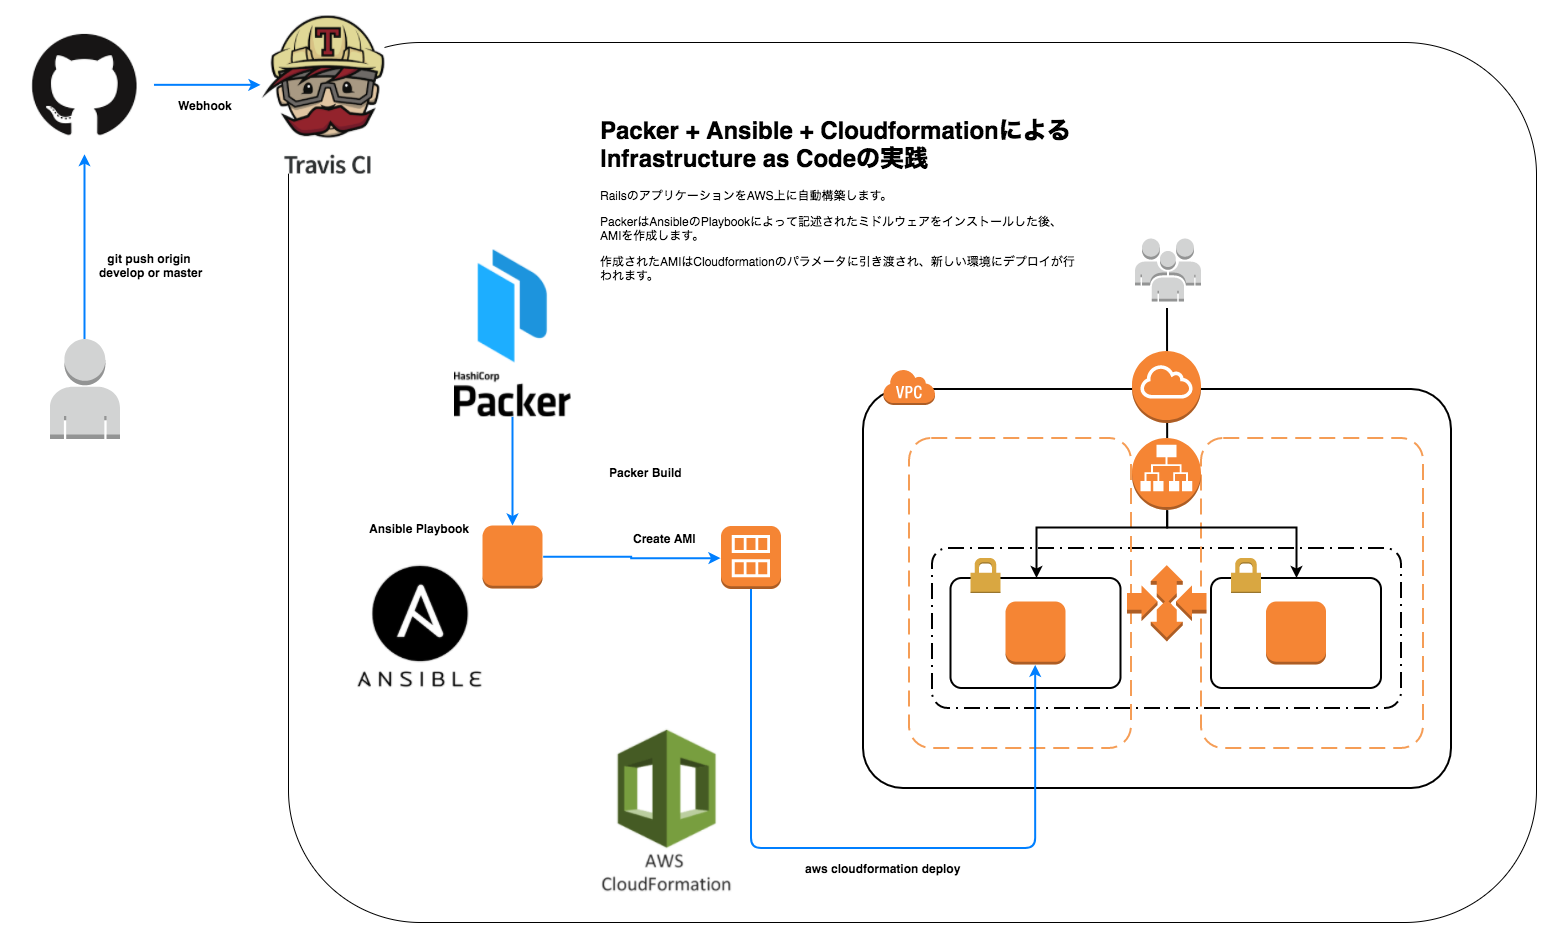
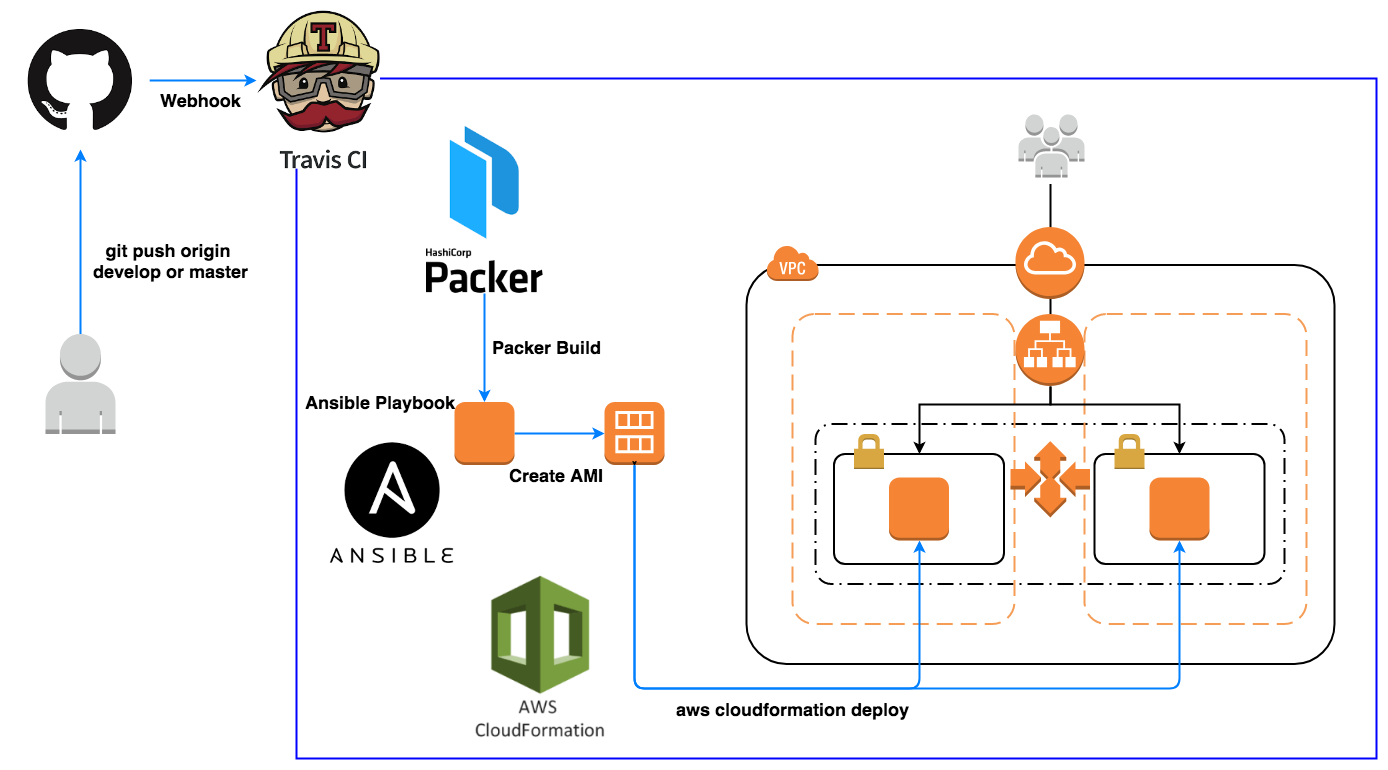
ye

diff --git a/README.md b/README.md
@@ -6,7 +6,7 @@ Automatically build Rails application on AWS.
 Packer creates AMI (Amazon Machine Image) after installing the middleware described by Ansible's Playbook.
 The created AMI is handed over to Cloudformation parameters and deployed to the new environment.The series of processing is done automatically by Travis CI.
 
-![デプロイの流れ](draw.io/flow.png)
+![deploy-flow](draw.io/flow.png)
 
 ## Target Branches
 
